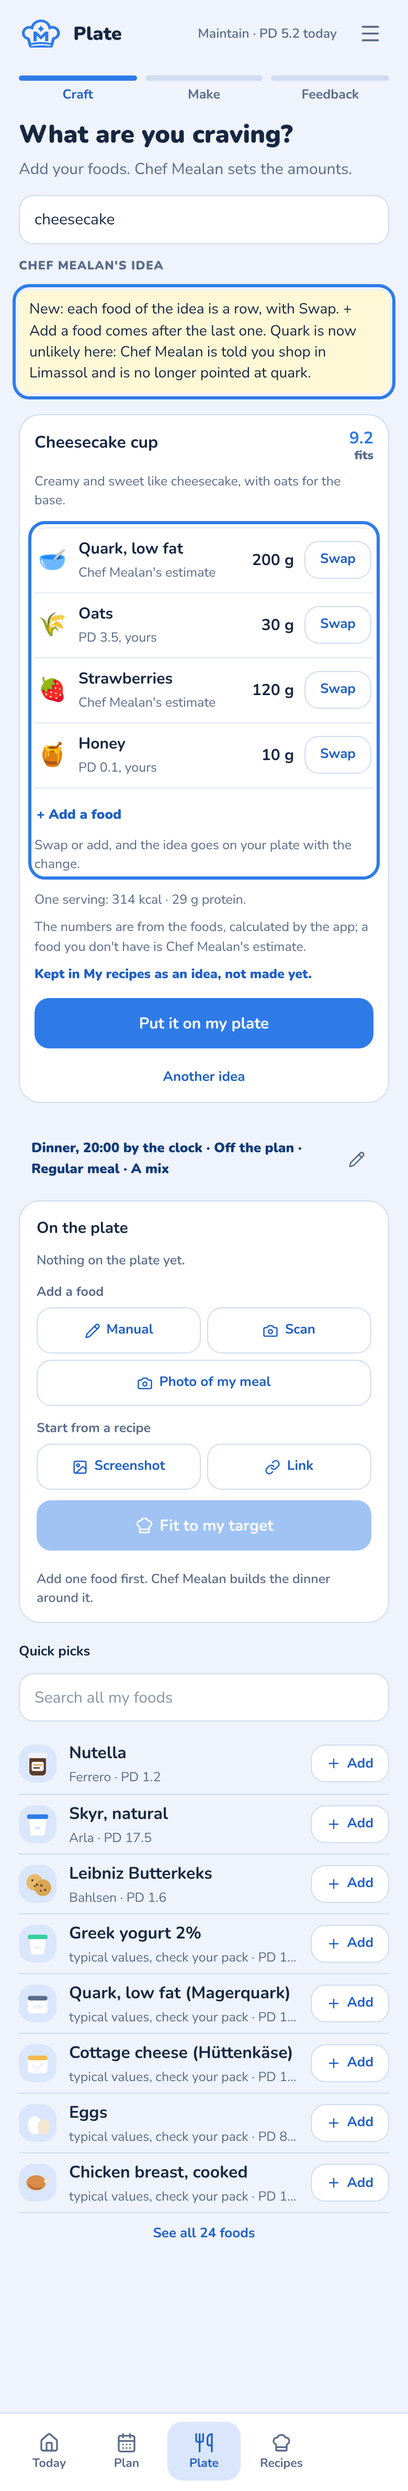
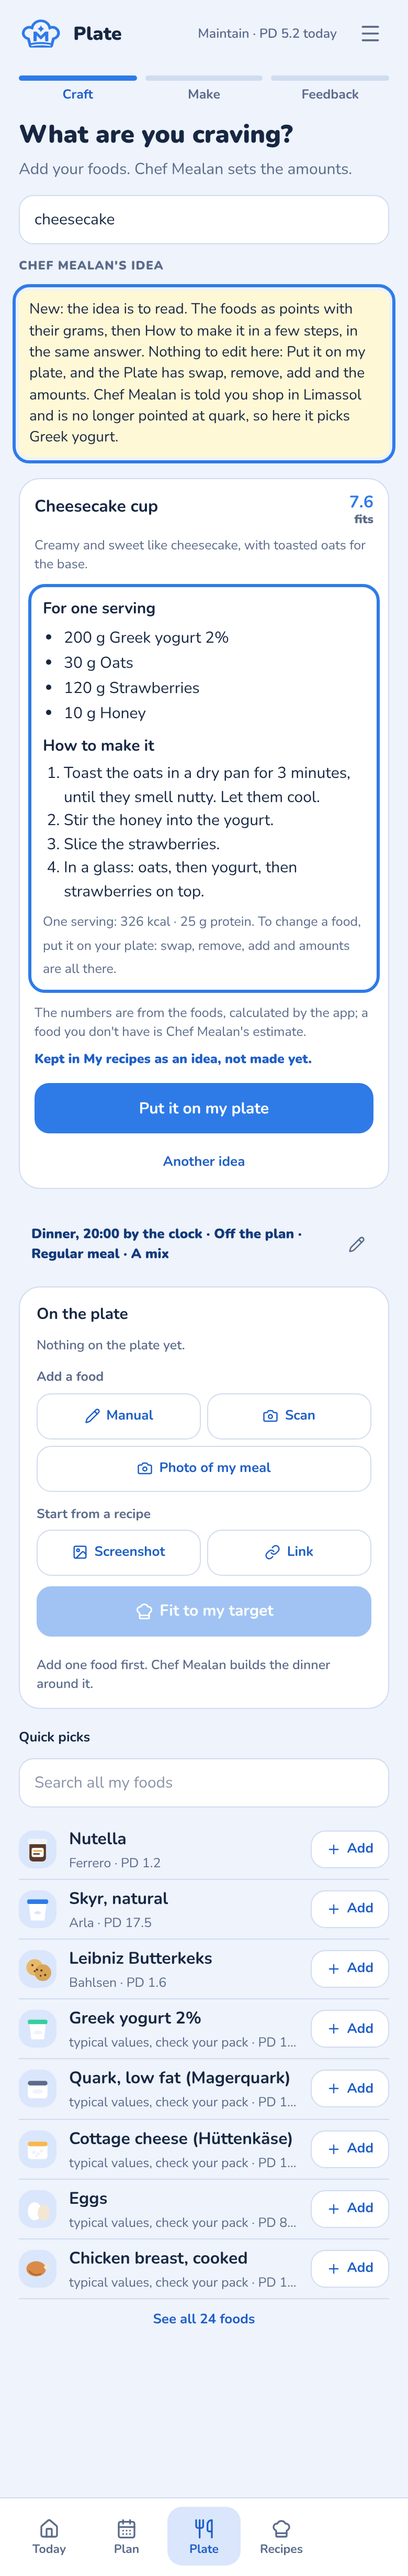
Board Stories100, DT148 version 2: the idea to read, + Add everywhere, the swipe line
Claude-Session: https://claude.ai/code/session_01BtJPGKTfK5KfbXuNDmfhQP

diff --git a/design/boards/genDT148.py b/design/boards/genDT148.py
@@ -84,10 +84,12 @@ class Component extends DCLogic {{
 
 W = SX + 3 * (SW + GAP) - GAP + 70
 B = Board(); y = 30
-cy = storyCard(B, y, "DT148", "Chef Mealan's idea: change its foods, and see it working", [
+cy = storyCard(B, y, "DT148", "Chef Mealan's idea: read it, change it on the Plate, see it working (version 2)", [
   ("Tester 3, UX2 and Bug 1 (Coach Milan, 28 October 21:57)", "Marko asked for a cheesecake from the box on top of the Plate. The idea had Quark, which he doesn't know. He wanted to swap it for a yogurt: no swipe and no add on the idea, and on the plate the swap offered nothing that made sense. He removed it, and then had to scroll to the bottom to add a food. While Chef Mealan worked, only a line of text showed; nothing said it was working."),
   ("Now, checked in 0.2.127", "The idea lists its foods in one grey line. Chef Mealan's instructions name quark and it is never told where you shop. On the plate, Swap lists Quark again first (Magerquark), then any food sorted by PD: skyr, whey, milk, biscuits, fruit, ice cream. It searches only your foods, in every place. + Add is the Quick picks list at the very bottom."),
-  ("The story", "The idea lists each food as a row with Swap, and + Add a food after the last one; a change puts the idea on the plate with it. On the plate, + Add a food sits right under the last food and opens the search there: your foods first, then the basic foods sold where you shop. Swap lists the same kind of food first (soft dairy for quark), then what is sold where you shop, then PD; a basic food sold there shows even when it is not in your foods yet (Take it). The food you swap away never comes back. Chef Mealan is told where you shop and is no longer pointed at quark. While it works, a card that moves: the hat stirs, the seconds count, and after 20 seconds it says it takes longer than usual. The same card for a recipe read and for the method."),
+  ("The story (version 2)", "The idea is to read: its name, PD, one line on why, the foods as points with their grams, and How to make it in three or four short steps, sent in the same answer. Put it on my plate, and every change happens there. On the plate, + Add a food sits right under the last food and opens the search there: your foods first, then the basic foods sold where you shop. One line under the foods says swipe left to swap, right to remove. Swap lists the same kind of food first (soft dairy for quark), then what is sold where you shop, then PD; a basic food sold there shows even when it is not in your foods yet, and joins them when you pick it. The food you swap away never comes back. Chef Mealan is told where you shop and is no longer pointed at quark. While it works, a card that moves: the hat stirs, the seconds count, and after 20 seconds it says it takes longer than usual. The same card for a recipe read and for the method."),
+  ("One word: + Add", "Take it goes from the Plate search and the Foods search. Every food you put on the plate or in your foods is + Add; the line under it says where it comes from (Basic food sold in Limassol; joins your foods)."),
+  ("Coach Milan, 28 October 23:10", "Swap on the idea but no remove. The previous version made more sense: Chef Mealan crafts a recipe, the foods with weights as points, a quick how to make it, and from there to the Plate, where all the functions are."),
   ("Rules", "Swap's order is a culinary rule: it moves to the rules module, with its row in culinary.md section 6."),
 ])
 h = rowEnd(cy,
@@ -100,12 +102,12 @@ h = rowEnd(y + 10,
 y = h
 h = rowEnd(y + 10,
   B.screen("DT148e", 0, y, "New: a wait that moves", "r148e", "changed", "The hat stirs, the seconds count."),
-  B.screen("DT148f", 1, y, "New: the idea's foods as rows", "r148f", "changed", "Swap on each food, + Add a food after the last."))
+  B.screen("DT148f", 1, y, "New: the idea to read", "r148f", "changed", "The foods as points, How to make it, then the Plate."))
 y = h
 h = rowEnd(y + 10,
-  B.screen("DT148g", 0, y, "New: Swap, the same kind first", "r148g", "changed", "Greek yogurt, cottage cheese, Cypriot anari and sheep's yoghurt."),
-  B.screen("DT148h", 1, y, "New: + Add a food under the foods", "r148h", "changed", "The search opens there: yours, then sold in Limassol."))
+  B.screen("DT148g", 0, y, "New: Swap, the same kind first", "r148g", "changed", "Greek yogurt, cottage cheese, then Cypriot anari and sheep's yoghurt."),
+  B.screen("DT148h", 1, y, "New: + Add a food under the foods", "r148h", "changed", "The search opens there, all + Add; swipe line under the foods."))
 y = h
 board("Stories100.dc.html", "DT148. Chef Mealan's idea: change its foods, and see it working",
-  "28 October 2026 (Tester 3, UX2 and Bug 1). Now: 0.2.127, untouched. Drawn for your approval; nothing built.",
+  "28 October 2026 (Tester 3, UX2 and Bug 1), version 2. Now: 0.2.127, untouched. Drawn for your approval; nothing built.",
   B, W, y - 100, "Stories99.dc.html")
